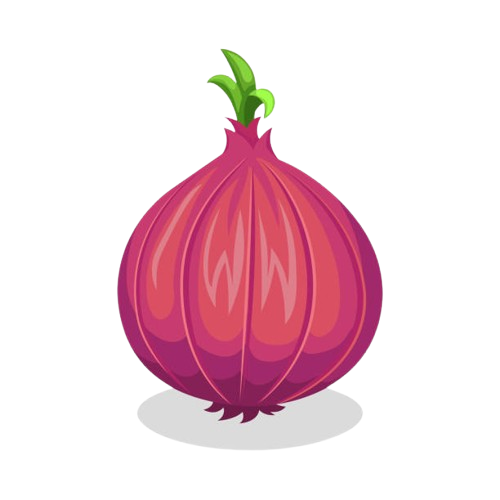
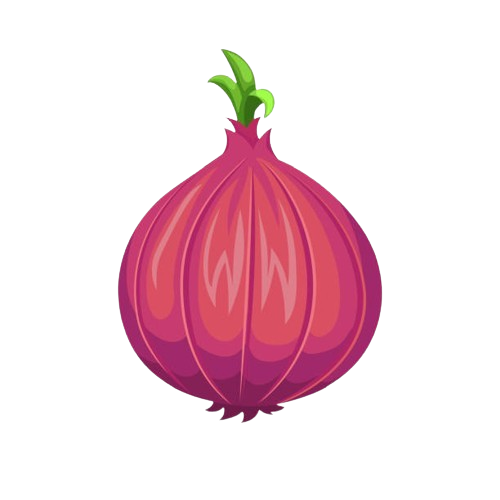
AGTC-286 Fix audio paths for side builder and make images transparent

diff --git a/frontend/src/components/Sides/SideBuilder.jsx b/frontend/src/components/Sides/SideBuilder.jsx
@@ -150,7 +150,16 @@ const SideBuilder = ({ score, day }) => {
                             onClick={() => {
                                 placeSide(raw);
                                 playPopSound();
-                                new Audio(`/audio/${raw}.mp3`).play();
+                                switch (raw){
+                                    case "potatoes":
+                                        new Audio(`/audio/potato.mp3`).play();
+                                        break;
+                                    case "onions":
+                                        new Audio(`/audio/onion.mp3`).play();
+                                        break;
+                                    default:
+                                    new Audio(`/audio/${raw}.mp3`).play();
+                                }
                             }}
                             draggable
                             onDragStart={(e) => onDragStart(e, raw)}
